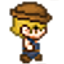
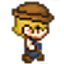
fixed walking right

diff --git a/core/src/com/teamname/goaton/components/PlayerAnimatedSpriteComponent.java b/core/src/com/teamname/goaton/components/PlayerAnimatedSpriteComponent.java
@@ -14,7 +14,7 @@ import java.util.Map;
 public class PlayerAnimatedSpriteComponent extends AnimatedSpriteRenderComponent {
 
     private static final String firstSprite = Assets.player_D;
-    public static final float WALKTIME = 0.1f;
+    public static final float WALKTIME = 0.3f;
 
     GameObject.Direction dir = GameObject.Direction.NONE;
     private int walkCycle = 0;
